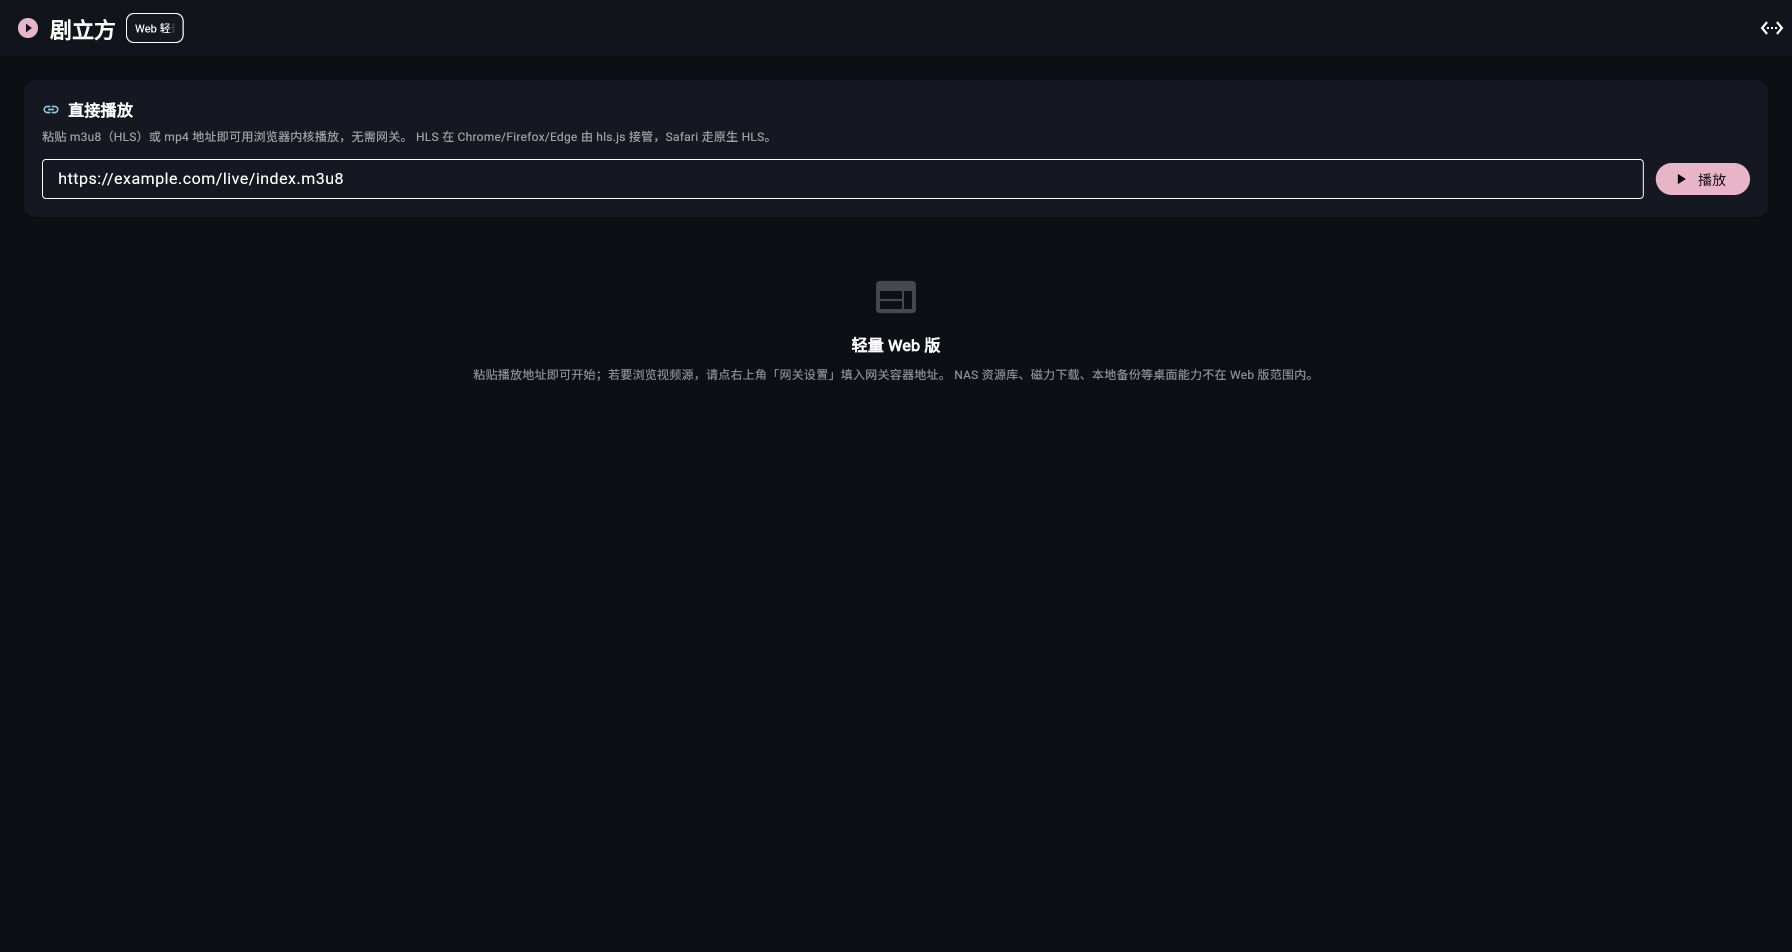
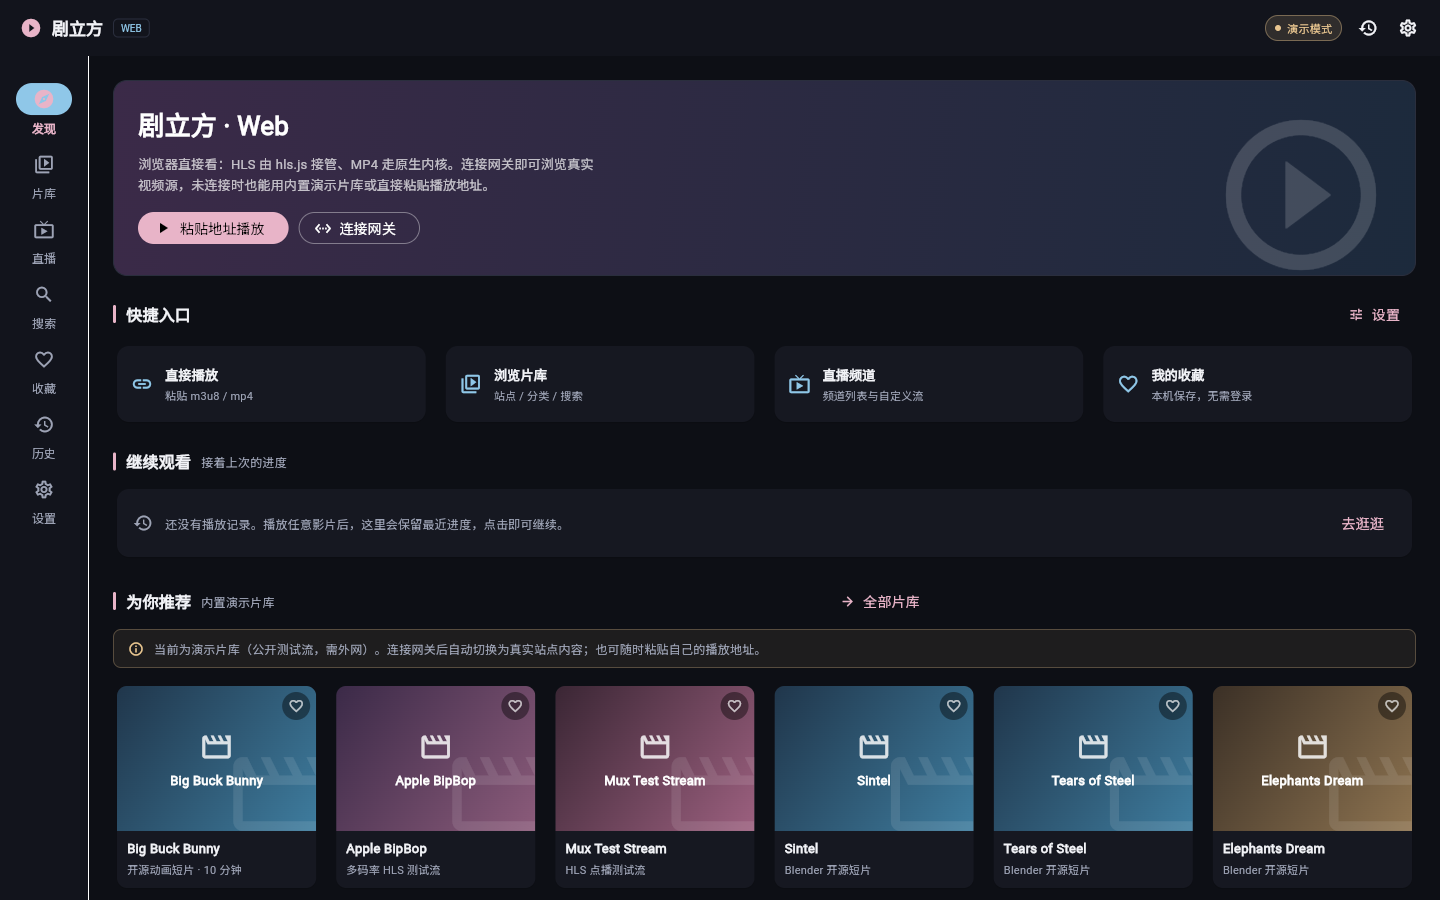
docs: 同步 v2 完整应用壳（7 页面 + 详情/播放）与真实浏览器截图
- README：功能范围改为完整应用壳 7 页表格、演示片库开关、离线字体已知项、界面预览
- WEB_COMPAT_PLAN：新增第 7 节（v2 起因/文件清单/真实交互验证/双端/已知项）
- 修正此前不准确表述：--no-web-resources-cdn 只本地化 canvaskit，不含字体
- 归档截图：web-render/catalog/detail/mobile/tablet/player.png

diff --git a/docs/WEB_COMPAT_PLAN.md b/docs/WEB_COMPAT_PLAN.md
@@ -67,7 +67,7 @@
 
 | # | 问题 | 根因 | 修复 |
 |---|------|------|------|
-| 1 | **页面白屏** | Flutter 默认从 `gstatic.com` CDN 拉 canvaskit.wasm，内网/NAS 无外网 → `ERR_CONNECTION_CLOSED` | 构建加 `--no-web-resources-cdn`，canvaskit/字体改走产物内本地资源（产物已有 `canvaskit/` 全套） |
+| 1 | **页面白屏** | Flutter 默认从 `gstatic.com` CDN 拉 canvaskit.wasm，内网/NAS 无外网 → `ERR_CONNECTION_CLOSED` | 构建加 `--no-web-resources-cdn`，canvaskit 改走产物内本地资源（实测请求 `/canvaskit/chromium/canvaskit.wasm` 为 200）。**注意：字体回退不在此开关范围内**，见第 7 节已知项 |
 | 2 | **Chrome 上 HLS 播不出来** | 用 `canPlayType('application/vnd.apple.mpegurl')` 判断原生支持，Chrome 返回 `"maybe"`（truthy）却并不能播 HLS，误跳过 hls.js | `hls_bridge.js` 改为 **HLS 一律优先交给 hls.js**，仅 `Hls.isSupported()` 为 false（Safari 原生 HLS）或加载失败时走原生 |
 | 3 | **改了桥但页面仍加载旧版** | nginx 把所有 `.js` 设成 `immutable` 365 天；`main.dart.js`/`flutter_bootstrap.js`/`hls_bridge.js` 不带内容 hash | 入口文件 `no-cache, must-revalidate`，带 hash 资源才 `immutable` |
 
@@ -78,7 +78,7 @@
 - `flutter build web --release -t lib/main_web.dart` → **✓ Built build/web**（一次通过）
 - `./build.sh` 完整闭环 → exit 0，镜像 `dramacube-web:local` **138MB**
 - `nginx -t` 通过；根路径/SPA 回退/hls.min.js/hls_bridge.js 全 200；`main.dart.js` gzip 生效
-- 浏览器真实渲染：深色影院风格首页、「剧立方 Web」标题、直接播放卡片全部出现；**控制台 0 错误 0 警告**
+- 浏览器真实渲染（v1 单页版）：深色影院风格首页、「剧立方 Web」标题、直接播放卡片全部出现；当时 **控制台 0 错误 0 警告**（页面中文较少，未触发引擎字体回退）。v2 完整应用壳的中文增多后触发了字体回退请求，见第 7 节。
 - 本地 `hls.min.js` 200（623912 字节）、`Hls.isSupported() = true`；Chrome 上 `dcAttachVideo` 生成
   `blob:` MediaSource URL → **hls.js 接管成功（PASS）**
 - Q2 生效：移除 21 个依赖、未触发回退；源码仓 `pubspec.yaml` 经 `git diff` 确认零改动
@@ -95,3 +95,66 @@
 - 网关容器尚未纳入本仓 compose（Q1 轻量范围）；如需一键带网关部署，是后续独立 task。
 - 是否把 `feat/web-compat` 合并回 `main` 属范围裁定，留待用户拍板；在合并前 CI 的
   `source_ref` 必须指向该分支。
+
+---
+
+## 7. v2 完整应用壳（2026-11-10 晚，本轮新增）
+
+### 起因
+
+v1 的首页只有一个「直接播放」输入框 + 一行说明：站点切换 / 搜索 / 分页 / 海报墙 / 网关设置
+其实都写了，但被 `if (_gatewayCtrl.text.isNotEmpty)` 整块隐藏，未配网关时看不见。
+用户反馈「就只有个播放器么？继续开发」→ 按 **Q1 已拍板的「浏览远程」补齐**，
+不新增后端、不碰桌面原有 `.dart`、不改桌面样式。
+
+### 新增 / 重写的源码（全部只在 Web 编译图内）
+
+| 文件 | 作用 |
+|------|------|
+| `lib/app/web_theme.dart` | 深色影院主题 + 粉/蓝/金/青色彩常量 |
+| `lib/app/web_store.dart` | `WebState`（ChangeNotifier）+ `WebScope`（InheritedNotifier）：网关 / 演示模式 / 收藏 / 历史 / 搜索词 / 导航索引，全部 `localStorage` 持久化 |
+| `lib/app/web_demo_data.dart` | 内置演示片库（8 部公开测试片 + 4 个演示频道），封面由本地渐变生成，无任何外链图片 |
+| `lib/app/web_widgets.dart` | 海报卡 / 演示封面 / 区块标题 / 空态 / 状态胶囊 / 统一 24px 页面内边距 |
+| `lib/app/web_app.dart` | `WebApp` + `WebShell`：宽屏 `NavigationRail`（7 项）、窄屏 `NavigationBar`（5 项 + 顶栏入口），`IndexedStack` 保状态 |
+| `lib/features/web_library/web_home_page.dart` | 发现页：Hero / 快捷入口 / 继续观看 / 推荐；有网关时异步取第一个站点内容替换推荐 |
+| `web_catalog_page.dart` | 片库（站点 / 分类 / 搜索 / 分页）+ 搜索页（演示 + 最多 6 个网关站点） |
+| `web_live_page.dart` | 直播页：自定义流 + 演示频道 + 网关 `/api/live/*` 宽容接入 |
+| `web_collection_page.dart` | 收藏 / 历史 / 设置（保存+测试连接 / 订阅导入 / 演示开关 / 数据清理） |
+| `web_detail_page.dart` | 详情页：海报 / 简介 / 选集 / 同类推荐 / 收藏 / 复制地址；无站点时自动向网关查第一个站点重试 |
+| `web_actions.dart` | 统一跳转动作（避免页面互相 import） |
+| `lib/features/web_player/web_player_page.dart` | 播放页增强：倍速菜单 / 全屏 / 收藏 / 复制地址 / 播放写历史 |
+| `web/hls_bridge.js` | 新增 `dcSetRate` / `dcToggleFullscreen` / `dcPlayerState` |
+| `lib/app/web_api.dart` | 补 `liveChannels()` 宽容解析（网关端点未实现时返回空，由 UI 回退演示频道） |
+
+**桌面原有 `.dart` 仍是一个字未改**；`pubspec.yaml` / `pubspec.lock` 保持原样（`flutter pub get` 造成的 lock 单行变化已 `git restore`）。
+
+### 真实浏览器验证（v2，非空口）
+
+- 编译：`flutter build web --release -t lib/main_web.dart --no-wasm-dry-run --no-web-resources-cdn`
+  → 第 2 轮 `✓ Built build/web`（首轮仅漏一个 import）。`./build.sh` 闭环 exit 0，Q2 移除 21 个依赖且未回退，镜像 138MB。
+- 逐页截图确认：发现 / 片库(8 海报) / 直播(4 频道) / 搜索 / 收藏 / 历史 / 设置(4 卡) / 详情 / 播放页 —— 全部正常渲染、无白屏。
+- **真实交互链路**：点海报 → 详情页（3 集选集 + 3 条同类推荐）→ 点「加入收藏」→ 点「立即播放」
+  → `localStorage` 里真实写入 favorites 与 history（含 `playURL`）→ `dcPlayerState()` 返回 MP4 地址、
+  `hlsAttached=false`（MP4 走原生内核的正确分支）→ 首页「继续观看」出现该片。
+- **倍速不是假按钮**：`dcSetRate(1.5)` 后 `dcPlayerState().rate` 从 `1` 变为 `1.5`。
+- **双端**：1440px 桌面左侧栏、820px 平板底部栏、390px 手机底部栏（快捷入口 2 列、海报 2 列），
+  四向 padding 一致、无贴边、无溢出。
+- canvaskit 实测请求本地 `/canvaskit/chromium/canvaskit.wasm`；`hls.min.js` / `hls_bridge.js` / `main.dart.js` 全 200。
+
+### 已知项（如实记录，未做 hack）
+
+1. **字体回退**：Flutter Web 引擎渲染中文时会按 `fontFallbackBaseUrl` 默认值
+   `https://fonts.gstatic.com/s/` 下载 Roboto / Noto Sans SC 分片；`--no-web-resources-cdn`
+   **不覆盖字体**。纯内网下这些请求失败会在控制台产生 warning，文字回退系统字体，功能不受影响。
+   SDK 侧可配 `window.flutterConfiguration.fontFallbackBaseUrl`，但彻底离线需要自带中文字体文件，
+   属后续独立 task。
+2. **网关直播 / 代理 / NAS 端点目前是 M2 占位**（`gateway_server.dart` 返回空数组 / 404），
+   直播页因此展示演示频道并明确标注；前端已做宽容接入，端点实现后无需改前端。
+3. **演示片库的公开测试流需外网**才能真正起播；离线环境可粘贴自己的地址，UI 与本地状态完全可用。
+4. **升级后需硬刷新**：本次验证时浏览器曾加载缓存的旧 `main.dart.js` 导致看到旧页面；
+   nginx 入口已是 `no-cache`，新用户无此问题，老页面按 Ctrl/Cmd+Shift+R 即可。
+
+### 待用户拍板
+
+- 内置演示片库是否保留（设置页「启用内置演示片库」可一键关闭，关闭后未连网关时首页为空）。
+- `feat/web-compat` 是否合并回 `hongguo-desktop` 的 `main`（未合前 CI `source_ref` 必须指向该分支）。

diff --git a/README.md b/README.md
@@ -1,6 +1,6 @@
 # 剧立方 DramaCube — Flutter Web 部署（路线 B）
 
-> 轻量 Web 版：原生浏览器体验，nginx 静态托管 Flutter Web 产物，镜像约 100MB。
+> 完整 Web 应用：原生浏览器体验，nginx 静态托管 Flutter Web 产物，镜像实测 138MB。
 > 替代已废弃的路线 A（noVNC 桌面镜像，见 [DramaCube-releases](https://github.com/g-star1024/DramaCube-releases)）。
 
 本仓库**只是一个部署壳**：不含任何应用源码，仅负责把 Flutter Web 构建产物用 nginx 托管成镜像。
@@ -29,13 +29,39 @@ docker run -d --name dramacube-web -p 8080:80 \
 浏览器打开 **http://localhost:8080**（NAS 部署把 `localhost` 换成 NAS IP，端口自定）。
 或用 Compose：`docker compose -f docker-compose.example.yml up -d`。
 
-**功能范围（轻量 Web 版）**：粘贴 m3u8/mp4 地址直接播放；配置网关容器地址后可浏览/搜索视频源。
-NAS 本地资源库、磁力下载、本地备份等桌面能力不在 Web 版范围内。
-浏览器不能监听端口，本地网关不启动，需在右上角「网关设置」填入网关容器地址
-（网关已带 `Access-Control-Allow-Origin: *`）；留空也能用「直接播放」。
+**功能范围（Q1 轻量版 = 浏览远程 + 浏览器内核播放）**：完整应用壳，共 7 个页面 ——
 
-**离线 / 内网可用**：构建带 `--no-web-resources-cdn`，canvaskit 与字体走产物内本地资源，
-不依赖 gstatic CDN；`hls.min.js` 也预置在产物内，无需外网即可播 HLS。
+| 页面 | 内容 |
+|------|------|
+| 发现 | Hero 横幅、4 个快捷入口、继续观看、推荐海报墙 |
+| 片库 | 站点切换 / 分类 / 搜索 / 分页 / 海报墙 |
+| 直播 | 频道列表 + 自定义直播流（网关 `/api/live/*` 目前是占位实现，前端已做宽容接入） |
+| 搜索 | 演示片库 + 已连接网关最多 6 个站点，含最近搜索词 |
+| 收藏 | 本地收藏，海报墙上直接点心形增删 |
+| 历史 | 最近播放（保留片名 / 分集 / 播放地址，一键继续观看） |
+| 设置 | 网关地址（保存 + 测试连接）、订阅导入、演示模式开关、清除本地数据 |
+
+另有**影片详情页**（海报 / 简介 / 选集 / 同类推荐 / 收藏 / 复制地址）与**播放页**
+（分集 / 倍速 / 全屏 / 收藏 / 历史记录）。收藏、历史、搜索词与网关地址存在浏览器
+`localStorage`，无需登录、无后端。NAS 本地资源库、磁力下载、本地备份等桌面能力不在范围内。
+
+**开箱即有内容**：未配网关时展示内置演示片库（纯本地静态数据 + 本地渐变封面，不依赖外链图片；
+播放地址是公开测试流，真正播放需外网；设置页可一键关闭）。配置网关容器地址后自动切换为真实站点内容，
+网关已带 `Access-Control-Allow-Origin: *`。Web 版自身不启动本地网关（浏览器不能监听端口）。
+
+**离线 / 内网**：构建带 `--no-web-resources-cdn`，canvaskit 走产物内本地资源（`/canvaskit/...`），
+`hls.min.js` 也预置在产物内，无需外网即可渲染页面并播 HLS。
+**已知项**：Flutter Web 引擎渲染中文时仍会尝试从 `fonts.gstatic.com` 下载 Roboto / Noto Sans SC
+回退字体（引擎 `fontFallbackBaseUrl` 默认值），纯内网下该请求失败会在控制台产生警告，
+但文字回退到系统字体、功能不受影响。演示片库里的公开测试流本身需要外网才能播放。
+
+### 界面预览（真实浏览器渲染）
+
+| 桌面首页 | 片库 | 详情页 | 手机 390px | 平板 820px |
+|---|---|---|---|---|
+| ![首页](docs/web-render.png) | ![片库](docs/web-catalog.png) | ![详情](docs/web-detail.png) | ![手机](docs/web-mobile.png) | ![平板](docs/web-tablet.png) |
+
+宽屏（≥900px）用左侧导航栏，窄屏用底部导航栏；四向统一 24px 内边距。播放页截图见 [docs/web-player.png](docs/web-player.png)。
 
 ---
 
@@ -86,7 +112,9 @@ Web 端的 HLS/视频播放使用浏览器原生 `<video>` + [hls.js](https://gi
 本仓已把 `hls.min.js` 预置到 web 产物根目录（`/hls.min.js`），供 Web 播放层按需加载。
 
 播放层接线在源码仓 `hongguo-desktop` 的 **Web 专用入口分支**（`lib/main_web.dart` +
-`web/hls_bridge.js`），桌面原有 `.dart` 一个字未改，media_kit/libmpv 行为完全不受影响。
+`lib/features/web_player/` + `web/hls_bridge.js`），桌面原有 `.dart` 一个字未改，
+media_kit/libmpv 行为完全不受影响。播放桥另提供 `dcSetRate` / `dcToggleFullscreen` /
+`dcPlayerState`，供播放页的倍速、全屏与状态读取使用。
 `hls_bridge.js` 中 **HLS 一律优先交给 hls.js**（只有 `Hls.isSupported()` 为 false 的
 Safari 原生 HLS 或加载失败才走原生）——不能用 `canPlayType` 判断，Chrome 会返回误导性的 `"maybe"`。
 
